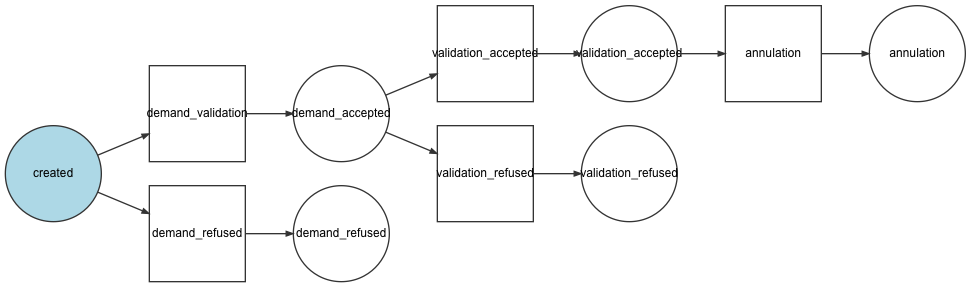
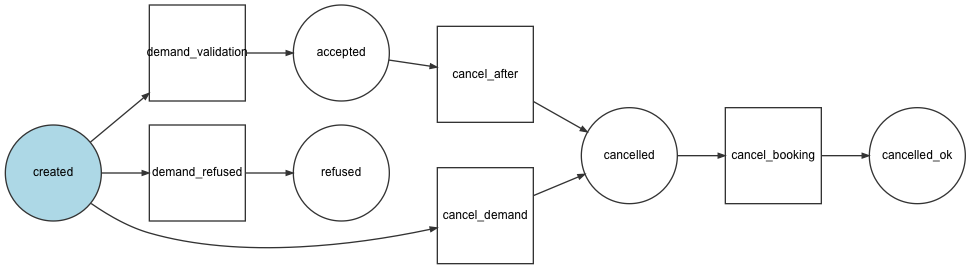
Modificaton du slider et du rendu de workflow

diff --git a/slider/index.html b/slider/index.html
@@ -48,7 +48,24 @@
         <section>
             <h2>Présentation</h2>
             <p class="fragment" data-fragment-index="1">Langages : HTML/CSS , PHP, Javascript</p>
-            <p class="fragment" data-fragment-index="2">Framework : Css à définir,Symfony</p>
+            <p class="fragment" data-fragment-index="2">Framework : Bootstrap 4 (Minty),Symfony</p>
+        </section>
+        <section>
+            <h2>Gestion projet</h2>
+            <p>Projet versionné sur <a href="https://github.com/sandybemonkey/lava" target="_blank">GitHub</a></p>
+            <p><a href="../documentations/Doc%20fonctionnelle.docx">Documentation Fonctionnelle</a></p>
+        </section>
+        <section>
+            <h2>UML</h2>
+            <img src="../uml/lava.jpg" alt="">
+        </section>
+        <section>
+            <h2>MCD</h2>
+            <img src="../merise/bdd.png" alt="">
+        </section>
+        <section>
+            <h2>Workflow</h2>
+            <img src="../workflow/graph.png" alt="">
         </section>
     </div>
 </div>
@@ -62,6 +79,7 @@
     // - https://github.com/hakimel/reveal.js#configuration
     // - https://github.com/hakimel/reveal.js#dependencies
     Reveal.initialize({
+        controls: false,
         dependencies: [
             { src: 'plugin/markdown/marked.js' },
             { src: 'plugin/markdown/markdown.js' },
